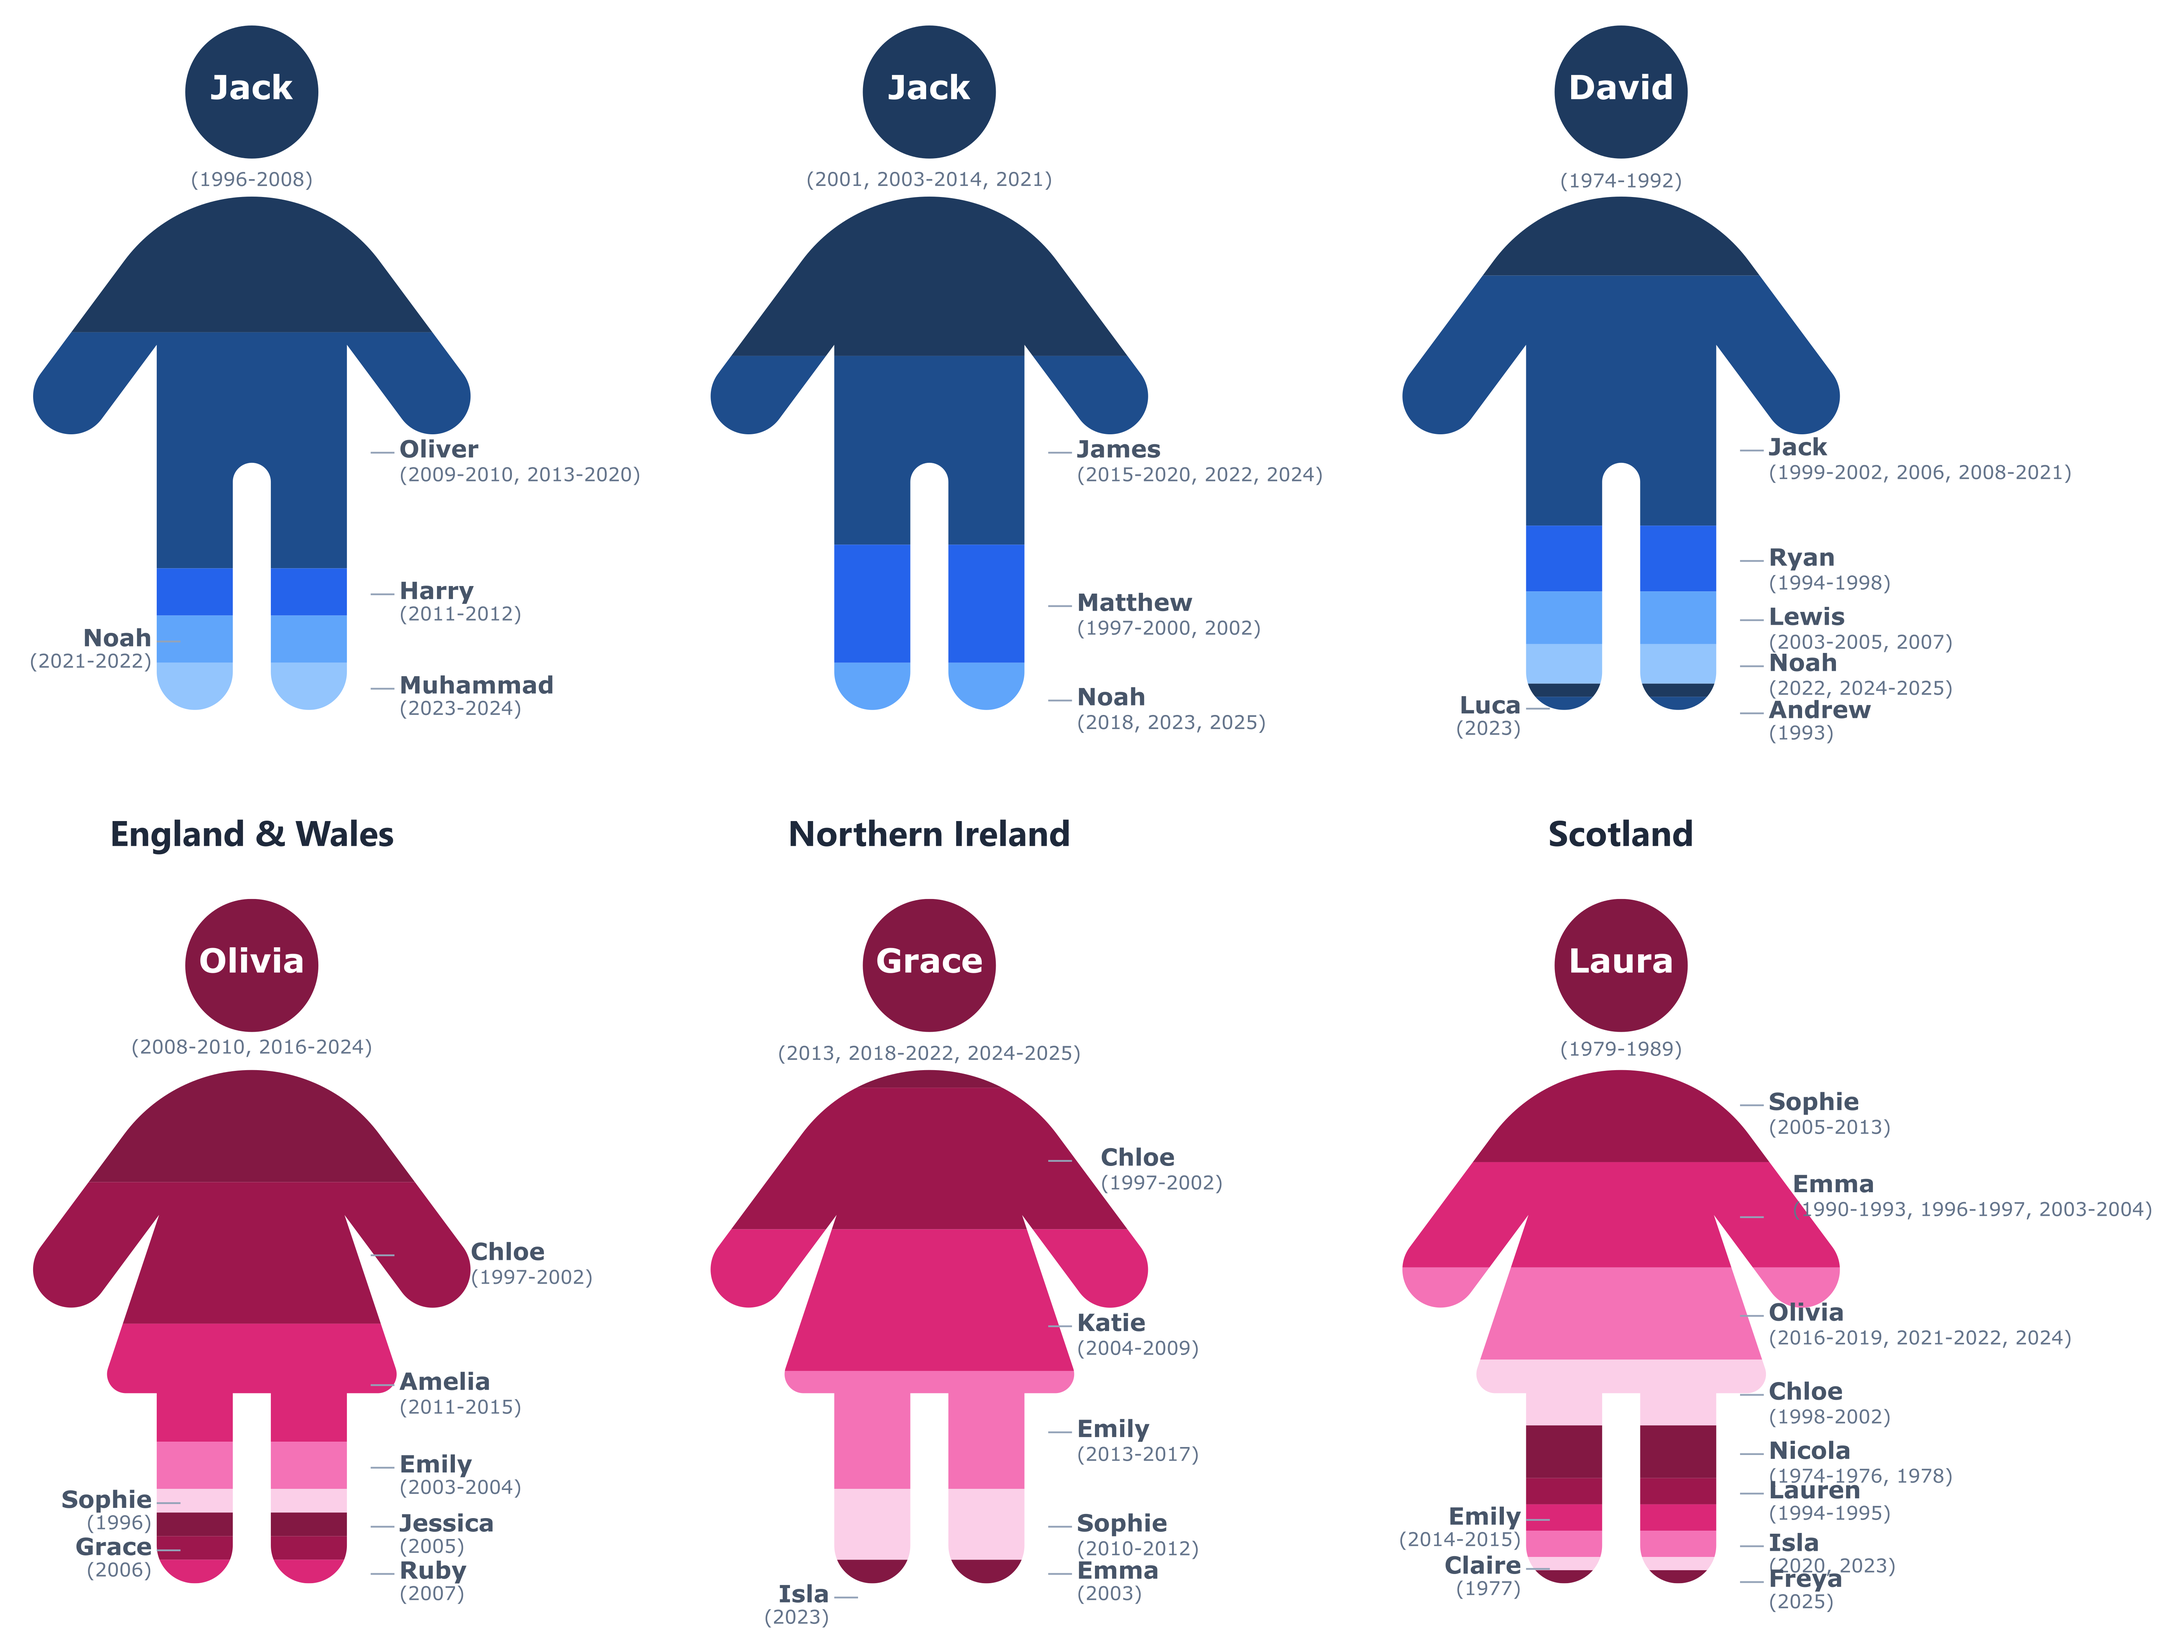
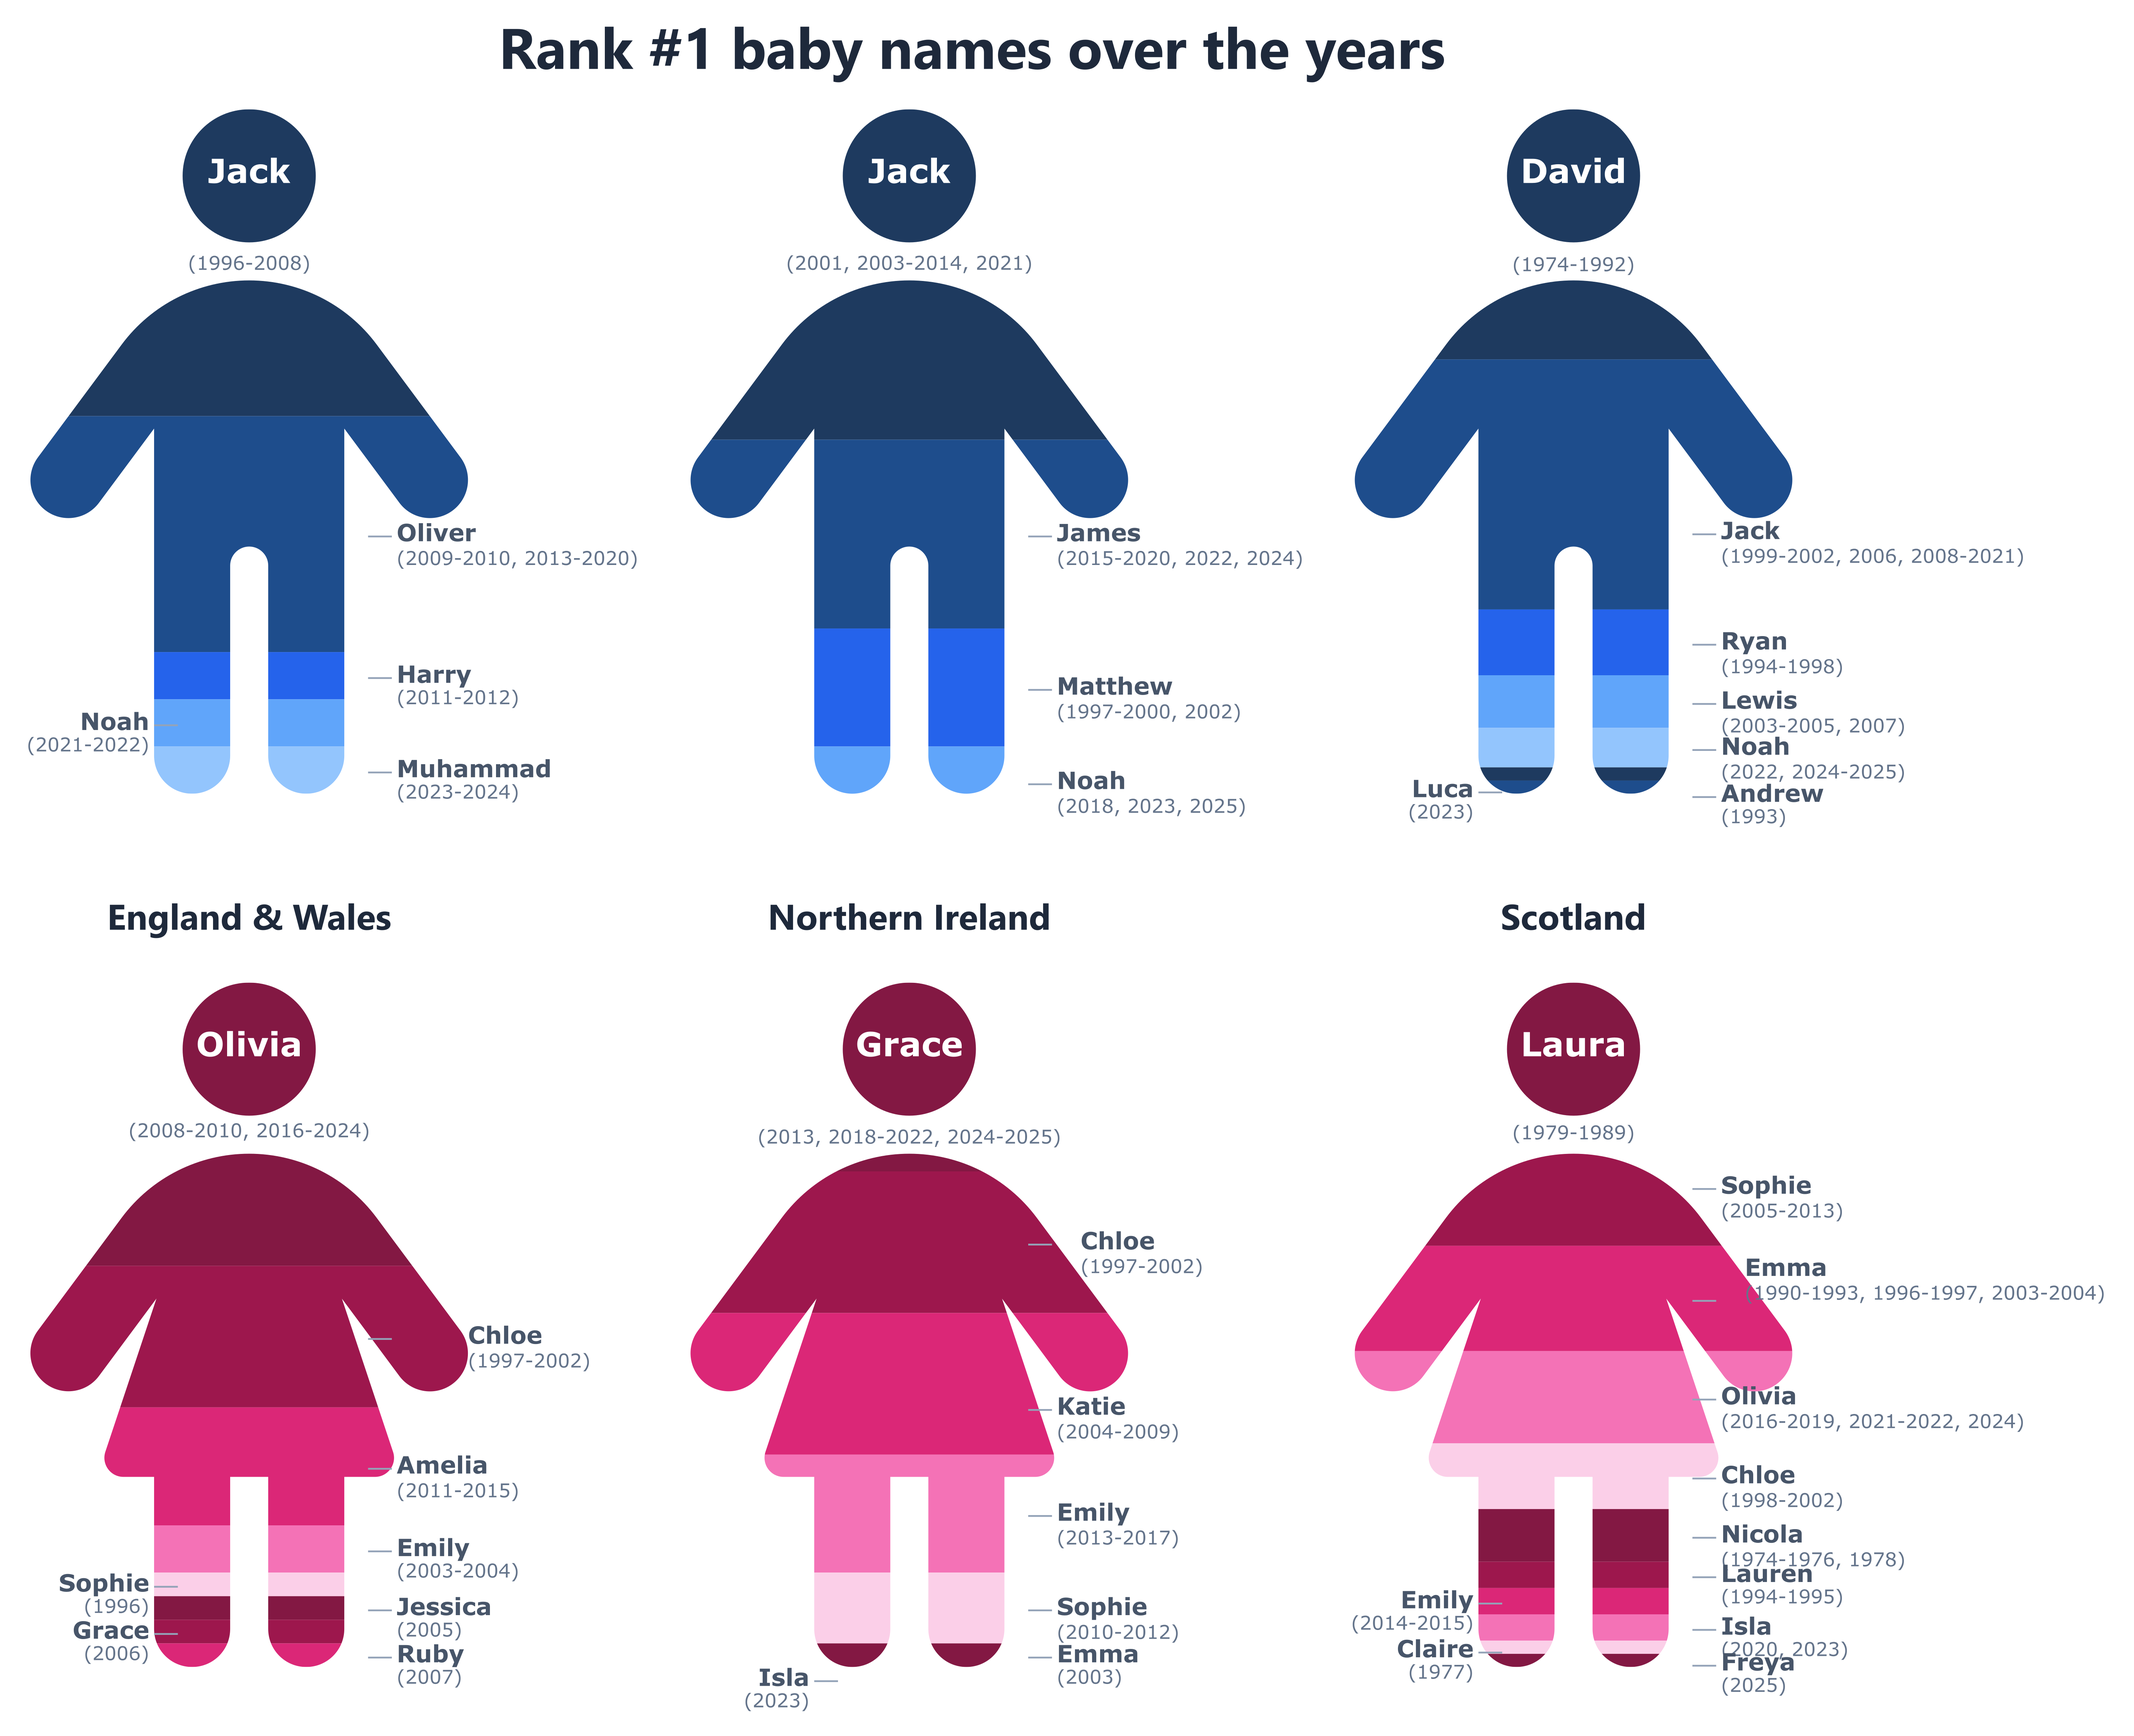
Updated site on Tue 06/16/2026

diff --git a/posts/2663/index.html b/posts/2663/index.html
@@ -293,22 +293,37 @@ slug: 2663
         const totalWidth = regions.reduce((sum, r) => sum + r.width, 0) + gap * (regions.length - 1);
         const maxColHeight = Math.max(...regions.map(r => r.height));
 
+        const mainTitle = 'Rank #1 baby names over the years';
+        const titleFontSize = 48;
+        const titlePadding = 60;
+
         const combined = document.createElementNS('http://www.w3.org/2000/svg', 'svg');
         combined.setAttribute('xmlns', 'http://www.w3.org/2000/svg');
-        combined.setAttribute('viewBox', `0 0 ${totalWidth} ${maxColHeight}`);
+        combined.setAttribute('viewBox', `0 0 ${totalWidth} ${maxColHeight + titlePadding}`);
         combined.setAttribute('width', totalWidth);
-        combined.setAttribute('height', maxColHeight);
+        combined.setAttribute('height', maxColHeight + titlePadding);
 
         const bg = document.createElementNS('http://www.w3.org/2000/svg', 'rect');
         bg.setAttribute('width', totalWidth);
-        bg.setAttribute('height', maxColHeight);
+        bg.setAttribute('height', maxColHeight + titlePadding);
         bg.setAttribute('fill', '#ffffff');
         combined.appendChild(bg);
+
+        const titleEl = document.createElementNS('http://www.w3.org/2000/svg', 'text');
+        titleEl.setAttribute('x', totalWidth / 2);
+        titleEl.setAttribute('y', titleFontSize + 10);
+        titleEl.setAttribute('text-anchor', 'middle');
+        titleEl.setAttribute('font-size', titleFontSize);
+        titleEl.setAttribute('font-weight', '700');
+        titleEl.setAttribute('fill', '#1e293b');
+        titleEl.setAttribute('font-family', 'Segoe UI, system-ui, sans-serif');
+        titleEl.textContent = mainTitle;
+        combined.appendChild(titleEl);
 
         let xOffset = 0;
         regions.forEach(region => {
             const g = document.createElementNS('http://www.w3.org/2000/svg', 'g');
-            g.setAttribute('transform', `translate(${xOffset},0)`);
+            g.setAttribute('transform', `translate(${xOffset},${titlePadding})`);
 
             if (region.parts.length >= 2) {
                 const boySvg = region.parts[0];
